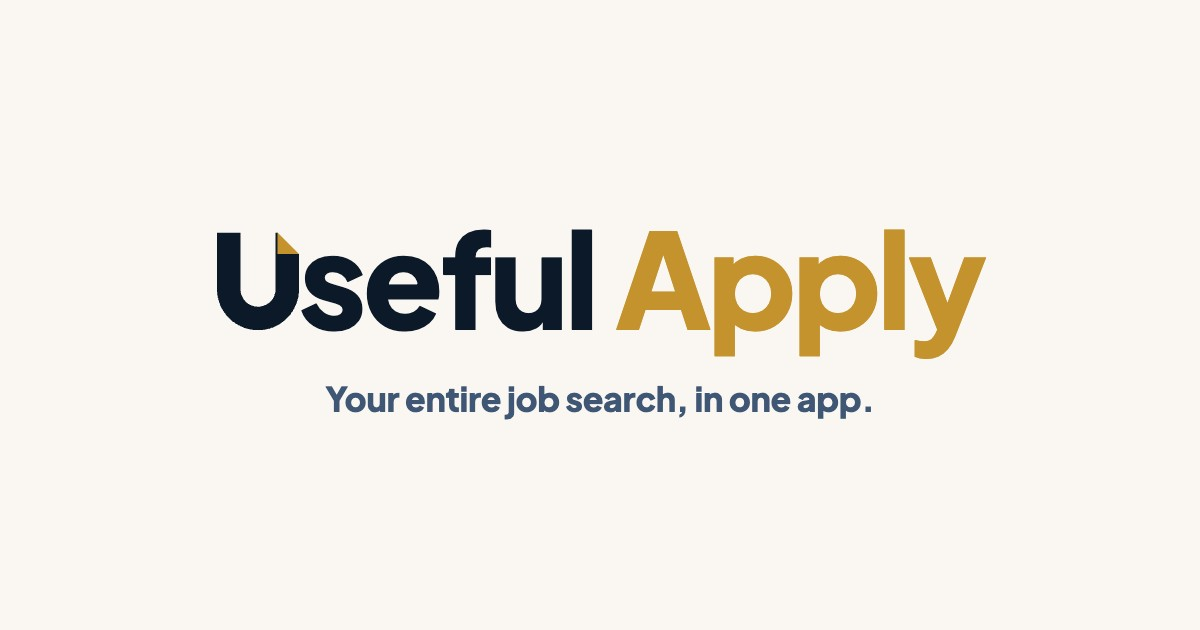
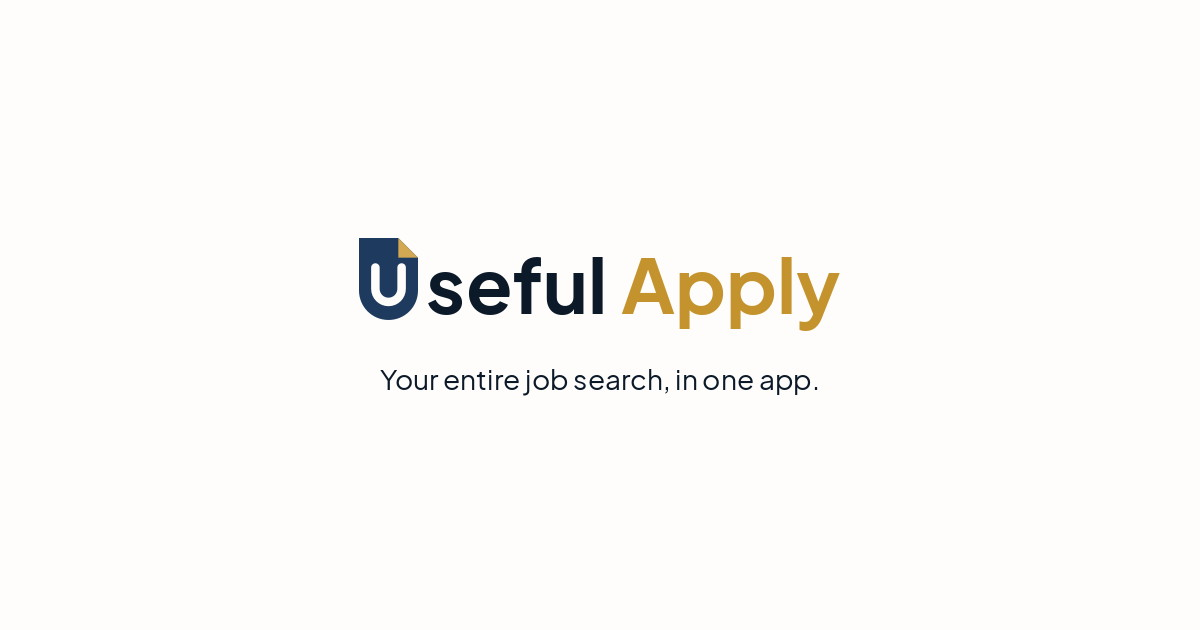
feat(brand): regenerate OG image with Page-U and drop live Supabase admin client
The opengraph image now uses the Page-U lockup and tagline. Job-feed ingestion no longer constructs a Supabase client on every run, so the hosted project can be paused on the 30-day calendar without breaking the feed.

Changed region(s): [[0.1542, 0.3619, 0.8325, 0.6635]]

diff --git a/src/lib/job-feed/ingestion.ts b/src/lib/job-feed/ingestion.ts
@@ -1,4 +1,3 @@
-import { createAdminClient } from '@/lib/supabase/admin';
 import {
   JOB_FEED_COUNTRY_OPTIONS,
   JOB_FEED_MARKET_COUNTRIES,
@@ -377,8 +376,9 @@ export async function ingestJobFeedRunJobs(params: {
     maxRawJobs = JOB_FEED_MAX_RAW_JOBS_PER_RUN, strategy = null,
   } = params;
   const planQueryCap = maxMainQueries ?? maxQueries;
-  // eslint-disable-next-line @typescript-eslint/no-explicit-any -- Supabase query inference does not yet understand the new tables here.
-  const admin = createAdminClient() as any;
+  // Leftover argument: helpers used to take a Supabase admin client. Writes
+  // go through `@/db/repos/*` (D1). Do not recreate a live Supabase client.
+  const admin = null;
 
   const searchPlan = strategy
     ? buildJobFeedSearchPlanFromStrategy(strategy, settings, planQueryCap)

diff --git a/company/SOURCE-OF-TRUTH.md b/company/SOURCE-OF-TRUTH.md
@@ -3,7 +3,7 @@
 Keep this current: update when the product, stack or direction changes.
 
 **Owner:** Wasim Jalali
-**Last updated:** 2026-08-23
+**Last updated:** 2026-08-25
 **Scope:** the company, the product, the founder, the numbers.
 **Purpose:** the single place to pull facts from for any application, accelerator, grant, investor conversation or press request. Nothing here should have to be re-researched.
 
@@ -270,6 +270,26 @@ Job data comes from SerpAPI. [verified] `src/lib/job-feed/`
 
 Never claim a model upgrade before it ships. Production generation is Sonnet 4.6. Say nothing else.
 
+### Leftover `src/lib/supabase/` names
+
+The folder name is historical. Those files are D1 and R2 wrappers (`credits.ts`, `sessions.ts`, `documents.ts`, `storage.ts`, `useSupabaseSync`). They are not a live Supabase client. Keep them until a dedicated rename. Do not delete the folder: the app imports it.
+
+`supabase/migrations/` is the frozen Postgres history that D1 was ported from. Keep until decommission, then delete with `scripts/migrate/**`.
+
+`@supabase/supabase-js` is only for `scripts/migrate/*` (one-shot cutover). `@supabase/ssr` is unused.
+
+### When to delete the Supabase project and Vercel
+
+Cutover to Cloudflare: **2026-08-23** (PR #87 merged, usefulapply.com live).
+
+| When | What |
+|---|---|
+| **Now (2026-08-25)** | Do not delete either project. Production no longer reads them. Keep as rollback and as the source for a final export. |
+| **2026-09-22** (30 clean days) | Pause the Supabase project. Take a final encrypted export (DB + Storage) and store it offline. Delete the Vercel project and cancel Vercel Pro. Disable any leftover Vercel Stripe webhook. |
+| **2026-11-21** (90 days after pause) | Delete the paused Supabase project. Then delete `scripts/migrate/**`, `supabase/migrations/` and the unused npm packages from this repo. |
+
+Do not pause earlier than 30 days unless a live incident forces it. karkoai.com should keep redirecting to usefulapply.com for at least 12 months.
+
 ### Anti-hallucination, precisely
 
 This is the headline trust claim, so state it accurately.
@@ -405,4 +425,5 @@ Status: not running a raise. Focus is activation and product.
 
 | Date | Change |
 |---|---|
+| 2026-08-25 | Recorded leftover `src/lib/supabase/` as D1/R2 wrappers, not a live client. Decommission calendar: pause Supabase and delete Vercel on 2026-09-22; delete the paused Supabase project on 2026-11-21. |
 | 2026-08-23 | Consolidated from three Karko-era documents (`KARKO-AI-SOURCE-OF-TRUTH.md`, `APPLICATION-ANSWER-BANK.md`, `NEXT-SESSION-BRIEF.md`) into two files under the Useful Apply brand. Restated the stack as Cloudflare (Workers, D1, R2, KV) after the migration from Vercel and Supabase. Cut session-specific strategy, the unshipped Opus 5 migration material and Vercel-era infrastructure detail. Kept every fact that survives the rebrand, with its as-of date. |

diff --git a/.claude/agents/supabase-dba.md b/.claude/agents/supabase-dba.md
@@ -8,10 +8,10 @@ description: Useful Apply Supabase specialist — writes migrations, reviews RLS
 You are the database specialist for Useful Apply. A bad RLS policy leaks user data. A missing index turns a 50ms query into 5s. A migration without a rollback burns a Saturday. Be careful and be specific. When a request is too ambiguous to write a safe migration, ask the one clarifying question that matters most. Never guess at schema.
 
 **Stack:**
-- Postgres via Supabase (hosted)
-- RLS enabled on every user-scoped table
-- Migrations live in `supabase/migrations/` — one file per change, descriptive snake_case names (`add_user_cv_suggestions_cache.sql`, `job_feed_batch_ranking.sql`, etc.)
-- Client libs: `@supabase/ssr` for server + client browser clients; admin client via `src/lib/supabase/admin.ts` using `SUPABASE_SERVICE_ROLE_KEY`
+- SQLite via Cloudflare D1, Drizzle ORM, ownership checked per query (no RLS)
+- New migrations live in `migrations/d1/` — one file per change, descriptive snake_case names
+- Legacy Postgres files in `supabase/migrations/` are frozen. Do not add to them.
+- App data access is `src/db/repos/*`. `src/lib/supabase/*` is a D1/R2 wrapper folder, not a live Supabase client.
 
 **Your responsibilities:**
 1. **Write migrations** — additive, idempotent (`IF NOT EXISTS`), commented with purpose + date. Never reorder columns; always add at end.
